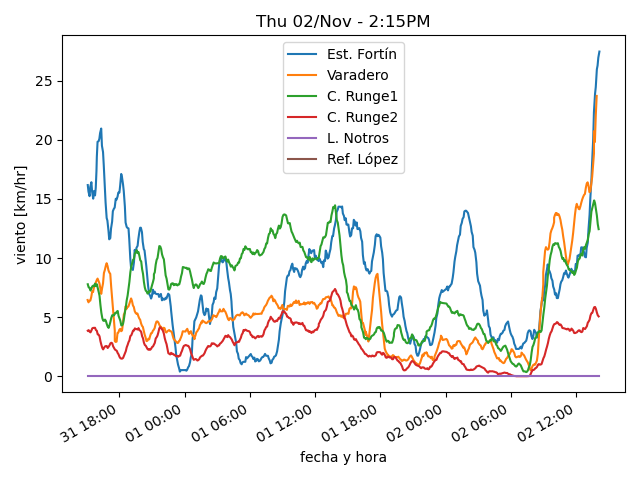
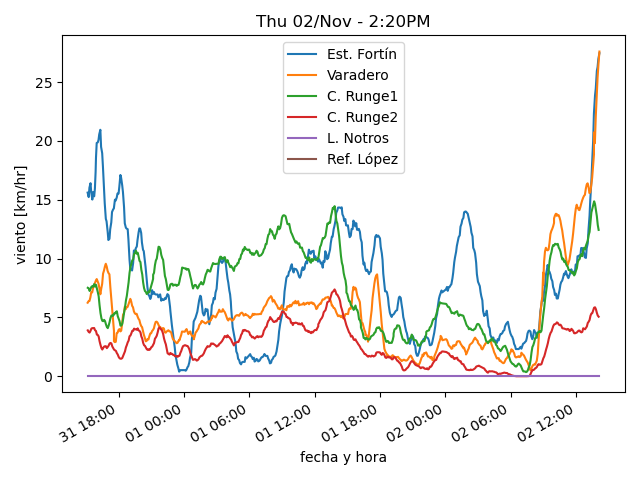
actualiza datos

diff --git a/estaciones/estacion2.html b/estaciones/estacion2.html
@@ -18,7 +18,7 @@
     </tr>
     <tr>
      <td class="stats_data">
-      1:54PM
+      2:09PM
      </td>
     </tr>
     <tr>
@@ -28,12 +28,12 @@
     </tr>
     <tr>
      <td class="stats_data">
-      5.1⁰C
+      5.2⁰C
      </td>
     </tr>
     <tr>
      <td class="stats_data">
-      69.5%
+      70.1%
      </td>
     </tr>
     <tr>
@@ -43,7 +43,7 @@
     </tr>
     <tr>
      <td class="stats_data">
-      23.3/27.9 km/hr NW
+      29.3/33.9 km/hr NW
      </td>
     </tr>
     <tr>
@@ -53,12 +53,12 @@
     </tr>
     <tr>
      <td class="stats_data">
-      2.0
+      3.0
      </td>
     </tr>
     <tr>
      <td class="stats_data">
-      229.9 W/m²
+      341.0 W/m²
      </td>
     </tr>
    </tbody>
